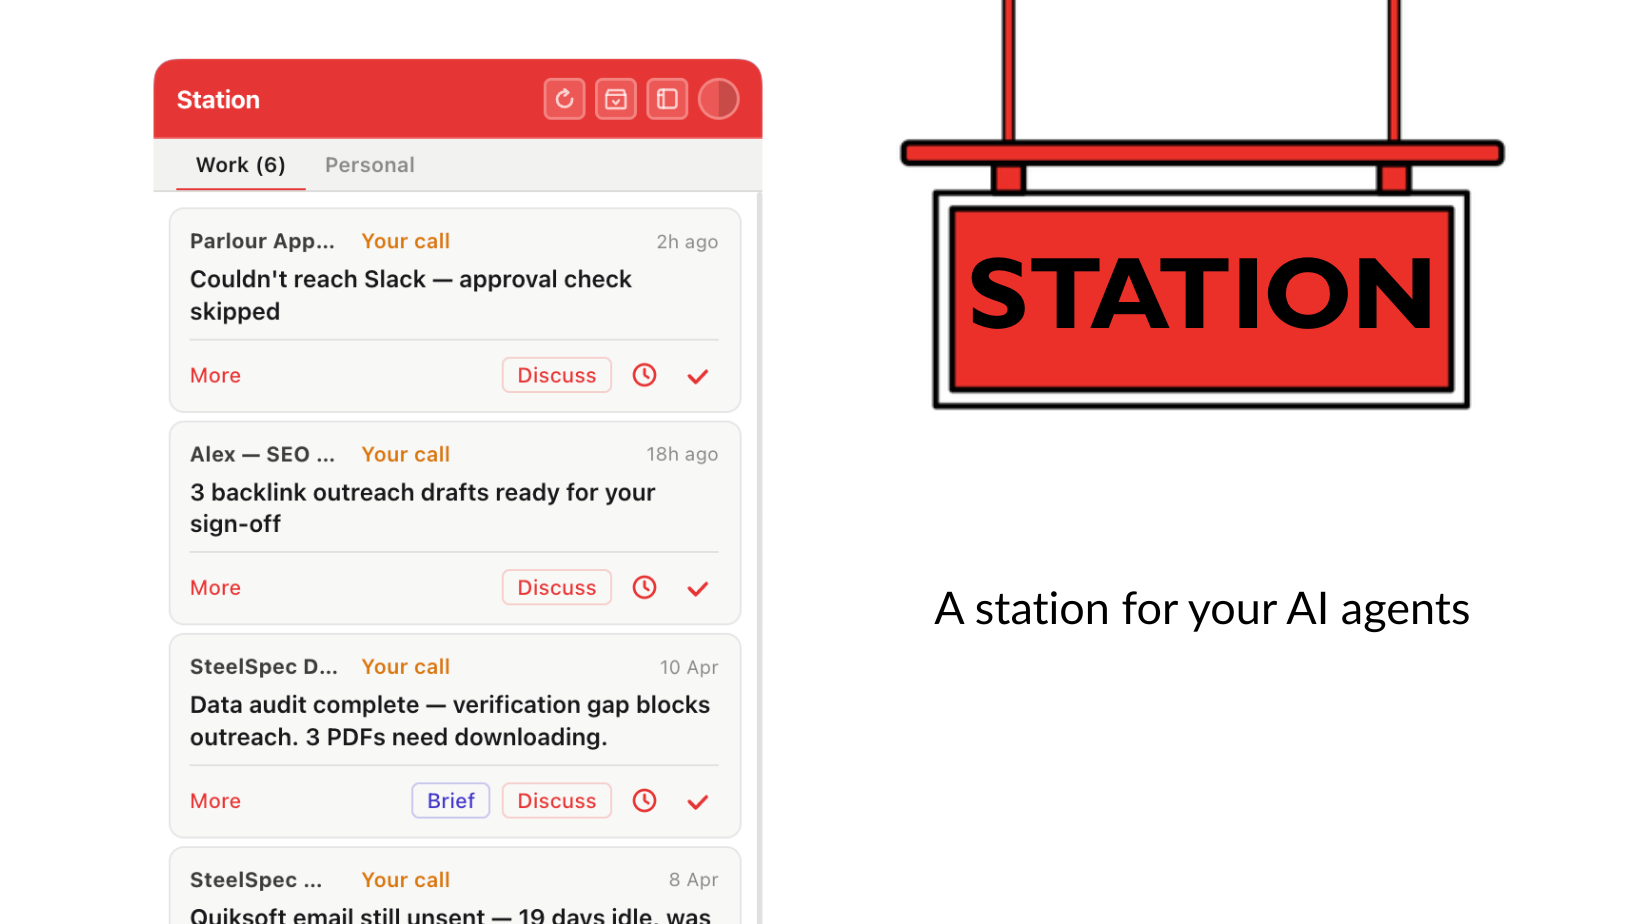
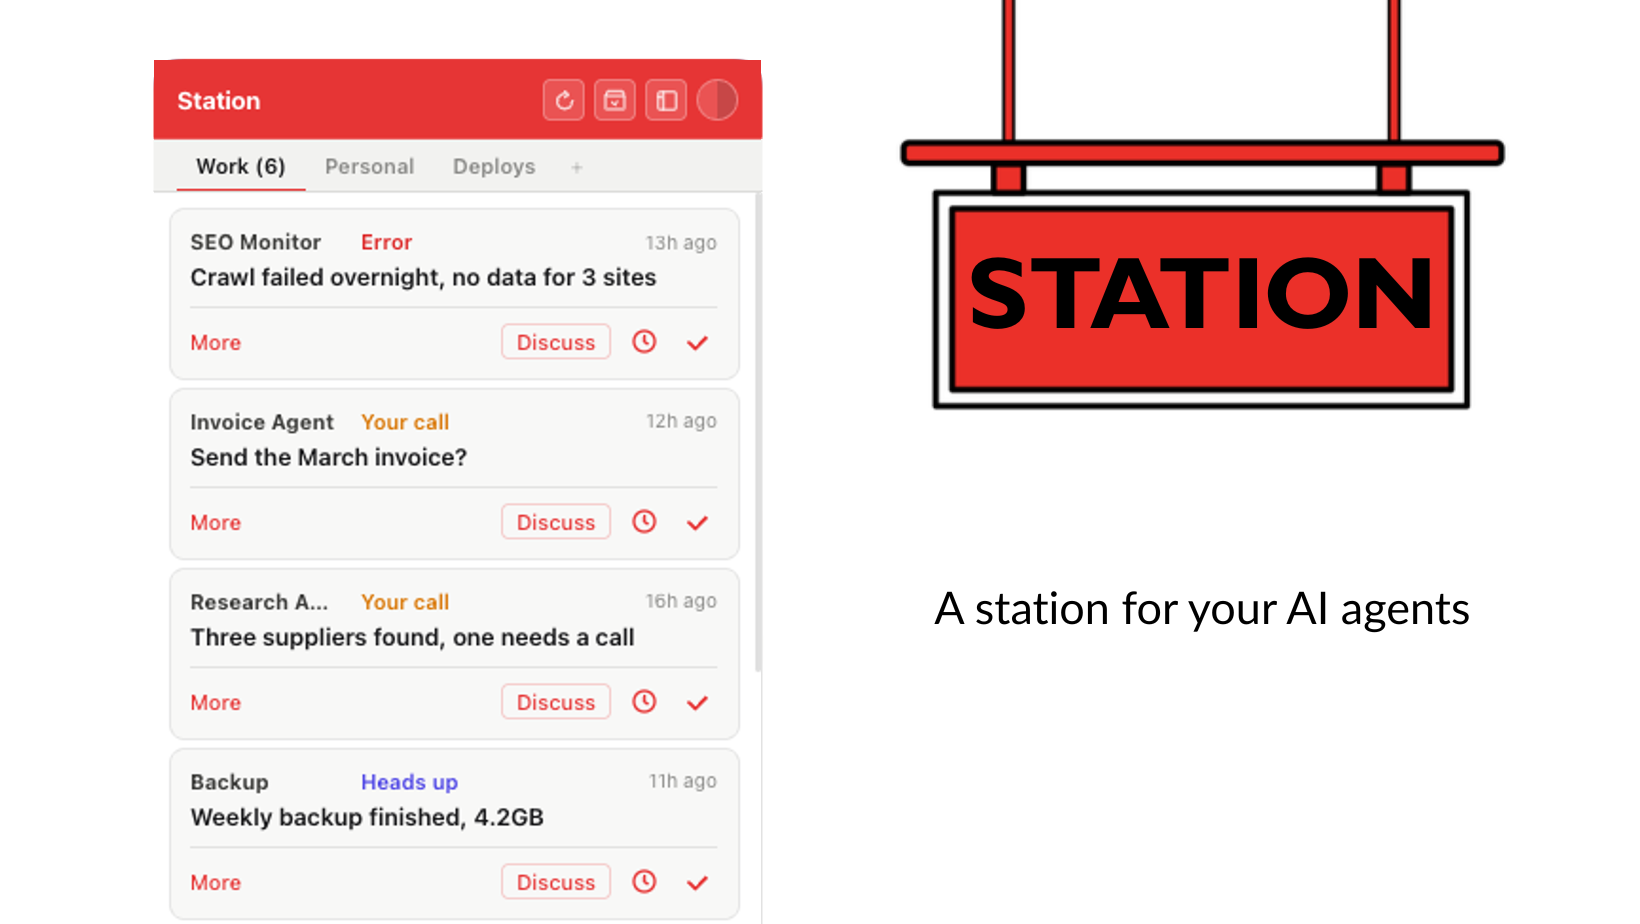
Document the features that shipped undocumented, refresh the screenshot
The repo had grown a working HTTP API, an interactive card layer and a
Slack adapter, none of which appeared in the README. Anyone installing
had no way to discover them. Now documented, with every example run
against a live instance first:

- POST /api/cards, for agents that would rather speak HTTP than write a
  file to your disk
- Interactive cards: the approval and buttons components, the response
  file written to responses/, and the callback_url alternative to
  polling
- POST /api/adapters/slack, which turns Slack Block Kit payloads into
  cards without changing the agent
- The "responded" status, which Station sets and agents should not

Screenshot was from April. It predated the tab strip's "+" and showed
real cards from my own machine, including a named client. Rebuilt from
a clean demo instance with invented cards and a custom project tab.

package.json called Station an inbox. It stopped being one when it
started monitoring what should have arrived and did not.

.gitignore now covers REQUIREMENTS.md, design/ and archive/.
REQUIREMENTS.md is an audit of my own machine and must never be
published.

diff --git a/README.md b/README.md
@@ -65,6 +65,7 @@ Each agent entry shows up as a card with one of four statuses:
 | `needs_input` | The agent is blocked and waiting on you |
 | `fyi` | Work done, nothing urgent |
 | `completed` | All finished, ready to dismiss |
+| `responded` | You answered a card's buttons, set by Station rather than by an agent |
 
 You can tick items off, snooze them until 8am tomorrow, open the full brief the agent wrote, or copy a pre-filled message to pick up the conversation in your AI tool. Station refreshes automatically and shows a live badge count in the dock for anything urgent.
 
@@ -134,6 +135,7 @@ The more clearly your agents identify themselves and describe what they did, the
 | `needs_input` | Agent is blocked and needs you to do something |
 | `fyi` | Work done, no action needed |
 | `completed` | Everything finished, nothing blocking |
+| `responded` | Set by Station when you answer an interactive card. Agents do not write this |
 
 ### Category values
 
@@ -164,6 +166,89 @@ cat > "$INBOX/my-agent-$(date +%Y-%m-%d-%H%M).json" << EOF
 }
 EOF
 ```
+
+---
+
+## Posting over HTTP instead of writing files
+
+Writing a JSON file is the simplest way in, but Station also accepts cards over HTTP while it is running. Useful for agents that cannot easily write to your disk, or that already speak HTTP.
+
+```bash
+curl -X POST http://localhost:2626/api/cards \
+  -H "Content-Type: application/json" \
+  -d '{
+    "agent": "deploy-bot",
+    "headline": "Build 214 is ready to ship",
+    "summary": "All tests green.",
+    "status": "needs_input",
+    "category": "work"
+  }'
+```
+
+Only `agent` and `headline` are required. Everything else falls back to the same defaults as a file-based card. The response gives you back the card's ids:
+
+```json
+{ "ok": true, "entry_id": "deploy-bot-2026-08-24-185146", "card_id": "deploy-bot-2026-08-24-185146" }
+```
+
+---
+
+## Cards you can answer
+
+A card can carry buttons, so instead of reading an update you answer it and the agent picks up your decision. Add an `interactive` block:
+
+```json
+{
+  "agent": "invoice-agent",
+  "headline": "Send the March invoice?",
+  "summary": "Drafted and ready. Needs your say-so before it goes.",
+  "interactive": {
+    "card_id": "inv-march",
+    "components": [
+      { "type": "approval", "approve_label": "Send it", "decline_label": "Hold" }
+    ]
+  }
+}
+```
+
+Two component types:
+
+| Type | What it gives you |
+|------|-------------------|
+| `approval` | Two buttons. Labels default to Approve and Decline |
+| `buttons` | Your own set, from an `options` list of `{ value, label, style }` where style is `primary`, `secondary` or `destructive` |
+
+When you press a button, Station writes your answer to `responses/<card_id>.json` inside the inbox folder and flips the card to `responded`:
+
+```json
+{
+  "card_id": "inv-march",
+  "responded_at": "2026-08-24T17:52:09.895Z",
+  "values": { "approval": "approve" }
+}
+```
+
+Your agent watches for that file to know what you decided. If the card includes `interactive.callback_url`, Station POSTs the same payload straight to it instead of making you poll.
+
+Set `accent` on a card to colour its buttons, so an agent's cards are recognisable at a glance.
+
+---
+
+## Slack-shaped payloads
+
+If you already have an agent that builds Slack Block Kit messages, point it at the Slack adapter and Station will translate the blocks into a card, buttons included, with no changes to the agent:
+
+```bash
+curl -X POST http://localhost:2626/api/adapters/slack \
+  -H "Content-Type: application/json" \
+  -d '{"agent":"ci","blocks":[
+        {"type":"header","text":{"text":"Deploy failed on main"}},
+        {"type":"section","text":{"text":"Step 4 timed out."}},
+        {"type":"actions","elements":[
+          {"type":"button","text":{"text":"Retry"},"value":"retry","style":"primary"}]}]}'
+```
+
+`header` and `section` blocks become the headline and summary, and `actions` become buttons you can press.
 
 ---
 
@@ -199,7 +284,9 @@ Config lives at `~/.station/config.json`:
 
 Station is a Node.js HTTP server that reads JSON files from your inbox folder and renders them as HTML. In Electron mode, `main.js` wraps the server in a native window with a live dock badge and system notifications, watching the inbox folder with `fs.watch()` so updates appear immediately. `setup.sh` creates a native macOS app wrapper and Login Item so the whole thing starts on login without a terminal.
 
-Agents write files in, Station reads them out. Dismissed items move to `archived/`, snoozed items move to `snoozed/` and return the next morning.
+Agents write files in, Station reads them out. Dismissed items move to `archived/`, snoozed items move to `snoozed/` and return the next morning, and answers to interactive cards land in `responses/`. Renaming or deleting a tab rewrites the `category` on the cards it held, so a tab change never strands a card.
+
+Everything lives in plain files you can read, move or delete yourself. There is no database and nothing leaves your machine.
 
 ---
 

diff --git a/station-convention.md b/station-convention.md
@@ -28,6 +28,7 @@ Example: `steelspec-monetisation-agent-2026-04-07-0906.json`
 - `completed`: agent finished, no action needed (shows green)
 - `fyi`: informational update only (shows blue)
 - `error`: something failed and needs attention (shows red, sorted to top)
+- `responded`: set by Station when you answer an interactive card, not written by agents
 
 ## Category values
 The category is the tab name, lowercased, with spaces turned into hyphens.
